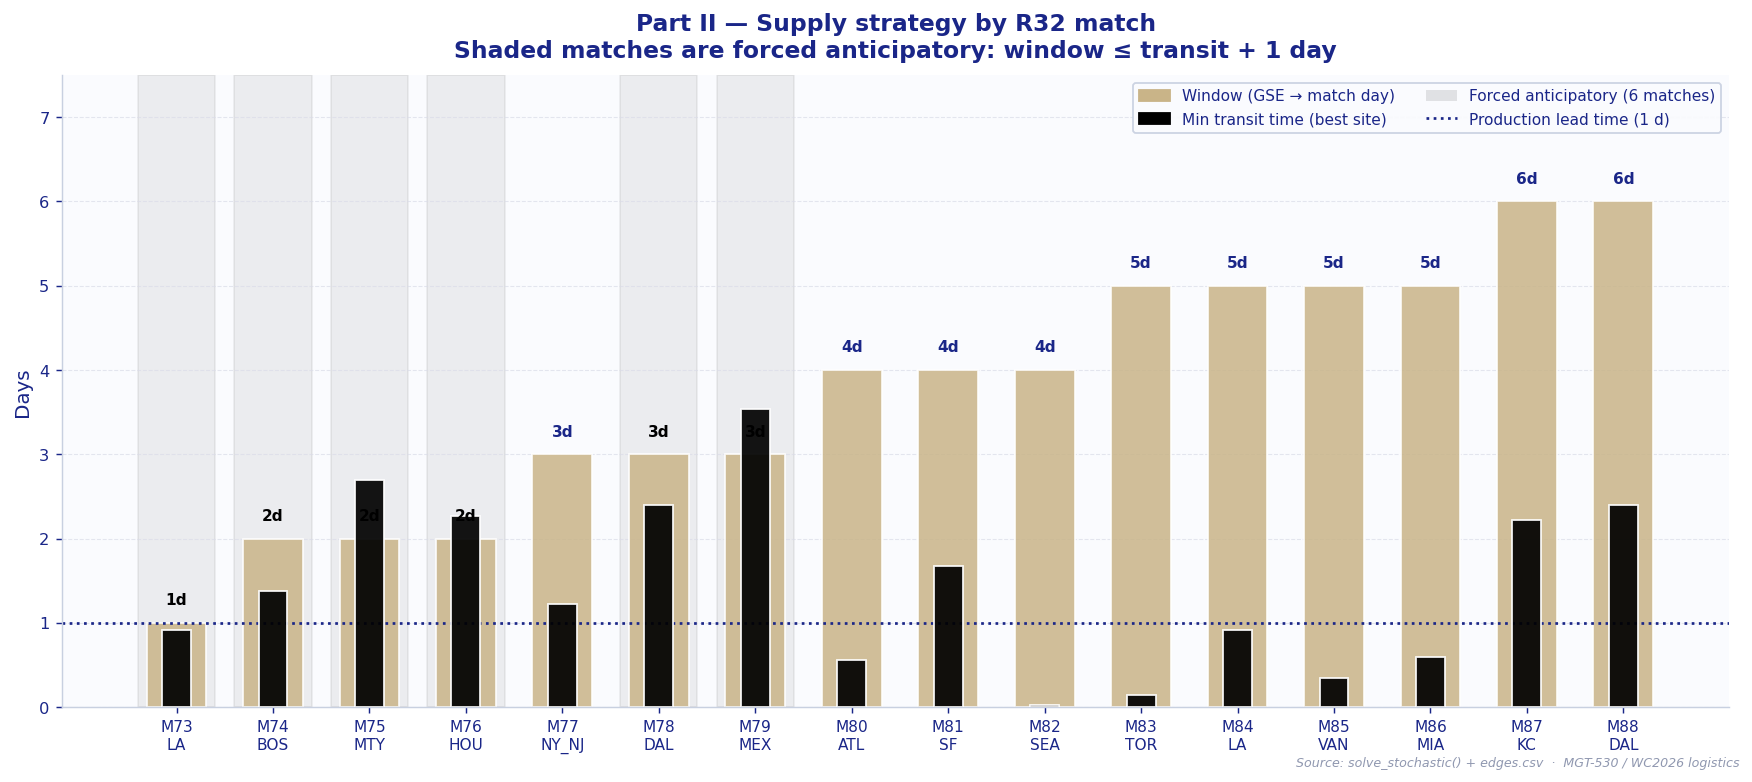
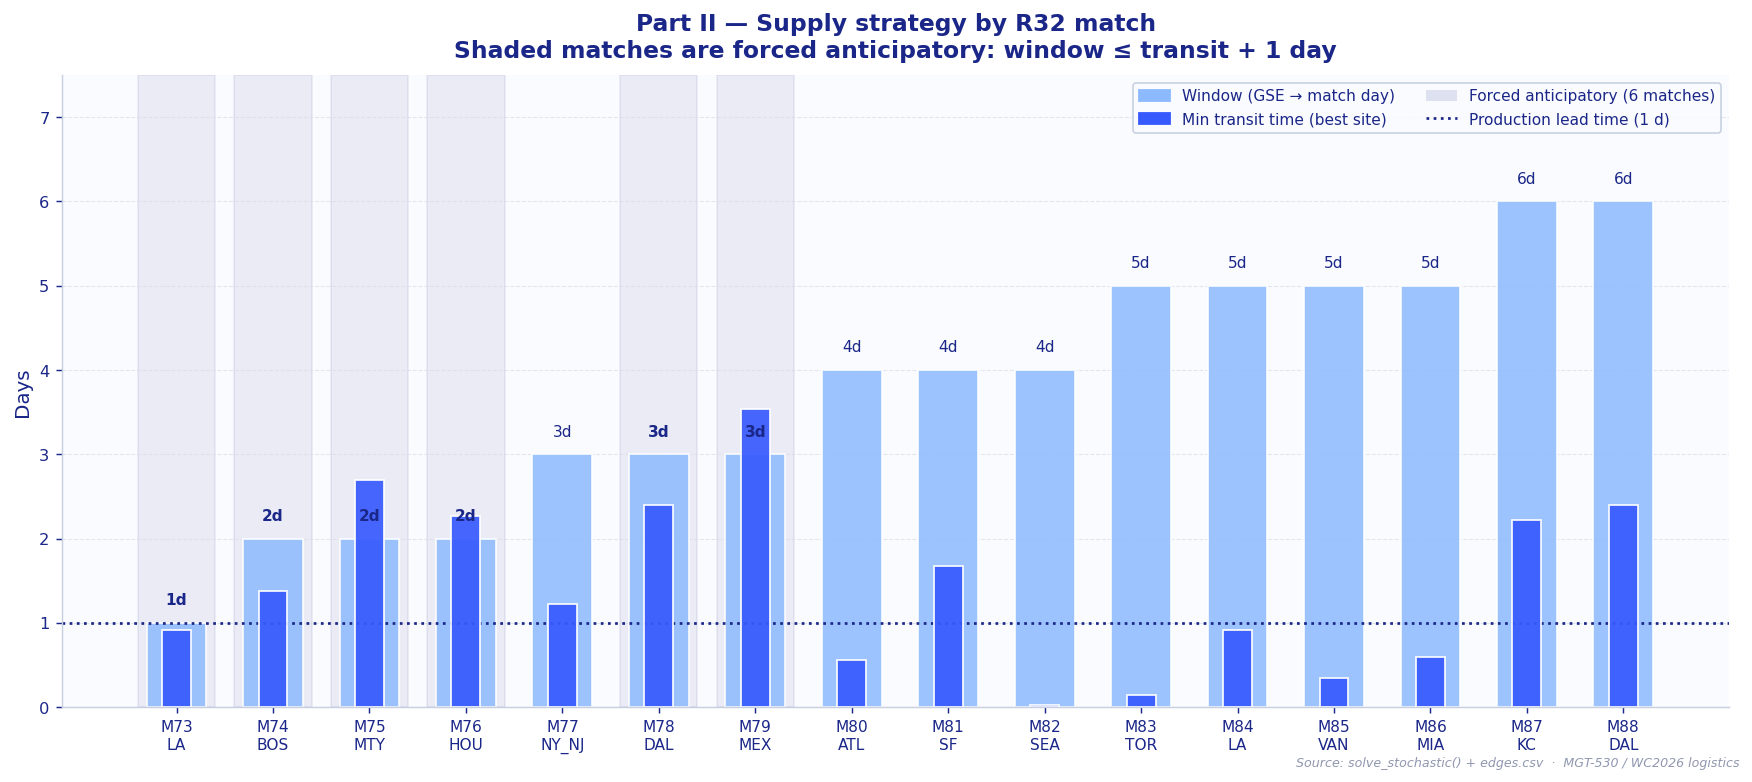
style: enforce strict palette order — 2-color figures use BLUE+LBLUE
Apply the user-specified strict palette order:
  1. Bright blue   #375AFE   (primary)
  2. Light blue    #8DBAFE   (secondary)
  3. Dark navy     #1A2688   (tertiary / baseline)
  4. Black         #000000   (4th)
  5. Light gold    #C9B488   (5th)
  6. Dark gold     #7A6438   (6th)

Rule: when a graph has only 2 main categories, use colours 1+2 as
the principal pair (BLUE + LIGHT BLUE).

Semantic aliases updated:
  C_STAGE1   = BLUE       (was DGOLD)
  C_STAGE2   = LIGHT BLUE
  C_FORCED   = BLUE       (was BLACK)  — saturated = warning emphasis
  C_REACTIVE = LIGHT BLUE (was GOLD)   — lighter = normal/calm
  C_EXTRA    = BLUE       (was BLACK)  — saturated = cost increase
  C_SAVINGS  = LIGHT BLUE (was GOLD)   — lighter = cost reduction
  C_LED/C_SOFT/C_BASELINE unchanged

For cost donut and stacked breakdown (6 categories), COST_COLORS
follows strict palette order: [BLUE, LBLUE, NAVY, BLACK, GOLD, DGOLD]

For 5-category reactive sites: [BLUE, LBLUE, NAVY, BLACK, GOLD]

In 2-colour figures where semantic emphasis is needed (forced bars,
forced map markers), visual distinction is preserved via:
  - bar / marker SIZE (larger for forced)
  - OUTLINE thickness (navy, 2.2 pt for forced)
  - BACKGROUND shading (light navy at 7% alpha for forced)
  - LABEL fontweight (bold for forced)

Headline numbers unchanged ($458,626 / 71 FEU / $302,535 / 6 forced).

Changed region(s): [[0.0616, 0.2148, 0.9555, 0.9207], [0.6473, 0.0921, 0.6781, 0.1841]]

diff --git a/src/common/visualize.py b/src/common/visualize.py
@@ -77,20 +77,22 @@ F_PURPLE  = F_DGOLD     # stage-1 / decision accent (was purple)
 F_RED     = F_BLACK     # warnings / forced / extra cost (was red)
 F_LIME    = F_GOLD      # savings / reactive / positive (was lime)
 
-# Semantic aliases
-C_LED       = F_BLUE
+# Semantic aliases — strict palette order: 2-color figures use BLUE + LIGHT BLUE
+# (golds/black are reserved for 3+ color figures and accents)
+C_LED       = F_BLUE        # 2-color pair (LED / Soft)
 C_SOFT      = F_LBLUE
-C_STAGE1    = F_DGOLD
+C_STAGE1    = F_BLUE        # 2-color pair (Stage-1 / Stage-2)
 C_STAGE2    = F_LBLUE
-C_FORCED    = F_BLACK
-C_REACTIVE  = F_GOLD
-C_SAVINGS   = F_GOLD
-C_EXTRA     = F_BLACK
-C_BASELINE  = F_NAVY
+C_FORCED    = F_BLUE        # 2-color pair (Forced / Reactive)
+C_REACTIVE  = F_LBLUE
+C_EXTRA     = F_BLUE        # 2-color pair (Extra / Savings) — saturated = warning
+C_SAVINGS   = F_LBLUE       # lighter = positive
+C_BASELINE  = F_NAVY        # third-tier (palette[2])
 C_SEA       = F_NAVY
 C_NEUTRAL   = "#C8D0E0"
 
-COST_COLORS = [F_NAVY, F_DGOLD, F_BLUE, F_LBLUE, F_BLACK, F_GOLD]
+# Strict palette order: blue, light blue, navy, black, light gold, dark gold
+COST_COLORS = [F_BLUE, F_LBLUE, F_NAVY, F_BLACK, F_GOLD, F_DGOLD]
 
 plt.rcParams.update({
     "font.family":            "DejaVu Sans",
@@ -1072,9 +1074,9 @@ def fig_part2_feasibility():
 
     for i in forced_idx:
         ax.bar(x[i] - w / 2, windows[i],    w, color=C_REACTIVE,
-               edgecolor=F_RED, linewidth=2.2, zorder=4)
+               edgecolor=F_NAVY, linewidth=2.2, zorder=4)
         ax.bar(x[i] + w / 2, mintransit[i], w, color=C_FORCED,
-               edgecolor=F_RED, linewidth=2.2, zorder=4)
+               edgecolor=F_NAVY, linewidth=2.2, zorder=4)
 
     ax.axhline(1, color=F_NAVY, ls=":", lw=1.5)
 
@@ -1087,7 +1089,7 @@ def fig_part2_feasibility():
     legend_els = [
         mpatches.Patch(color=C_REACTIVE, label="Window (GSE → match)"),
         mpatches.Patch(color=C_FORCED,   label="Min transit (best site)"),
-        mpatches.Patch(facecolor=C_REACTIVE, edgecolor=F_RED, linewidth=2,
+        mpatches.Patch(facecolor=C_REACTIVE, edgecolor=F_NAVY, linewidth=2,
                        label="Forced-anticipatory match"),
         Line2D([0], [0], color=F_NAVY, ls=":", lw=1.5, label="Production lead time (1 day)"),
     ]
@@ -1301,27 +1303,27 @@ def fig_anticipatory_by_match():
     fig, ax = plt.subplots(figsize=(13.5, 6))
     x = np.arange(len(match_ids))
 
-    # Background bands: red shade for forced indices
+    # Background bands: subtle navy shade for forced indices
     for i, mid in enumerate(match_ids):
         if mid in forced_set:
-            ax.axvspan(i - 0.4, i + 0.4, color=F_RED, alpha=0.06, zorder=0)
+            ax.axvspan(i - 0.4, i + 0.4, color=F_NAVY, alpha=0.07, zorder=0)
 
-    # Window as filled bar (green)
+    # Window as filled bar (light blue, principal pair)
     ax.bar(x, windows, color=C_REACTIVE, edgecolor="white", width=0.62,
            alpha=0.85, label="Window (days from GSE to match)", zorder=2)
-    # Transit time as smaller bar (red overlay)
+    # Transit time as smaller bar (bright blue overlay)
     transit_plot = [t if t is not None else 0 for t in mintransit]
-    ax.bar(x, transit_plot, color=F_RED, edgecolor="white", width=0.30,
+    ax.bar(x, transit_plot, color=C_FORCED, edgecolor="white", width=0.30,
            alpha=0.92, label="Min transit time (best site)", zorder=3)
     # Production lead-time floor (1 day)
     ax.axhline(1, color=F_NAVY, ls=":", lw=1.5, label="Production lead time (1 d)")
 
     for i, (win, mid) in enumerate(zip(windows, match_ids)):
         forced = mid in forced_set
-        col = F_RED if forced else F_NAVY
+        col = F_NAVY
         ax.text(i, win + 0.18, f"{win}d",
                 ha="center", va="bottom", fontsize=8.5,
-                color=col, fontweight="bold")
+                color=col, fontweight="bold" if forced else "normal")
 
     ax.set_xticks(x)
     ax.set_xticklabels(
@@ -1334,8 +1336,8 @@ def fig_anticipatory_by_match():
 
     legend_els = [
         mpatches.Patch(color=C_REACTIVE, label="Window (GSE → match day)"),
-        mpatches.Patch(color=F_RED,      label="Min transit time (best site)"),
-        mpatches.Patch(facecolor=F_RED, alpha=0.10,
+        mpatches.Patch(color=C_FORCED,   label="Min transit time (best site)"),
+        mpatches.Patch(facecolor=F_NAVY, alpha=0.12,
                        label=f"Forced anticipatory ({len(forced_set)} matches)"),
         Line2D([0], [0], color=F_NAVY, ls=":", lw=1.5, label="Production lead time (1 d)"),
     ]
@@ -1419,7 +1421,7 @@ def fig_part2_production_days():
         ax.text(i, tot + 8000, f"\\${tot:,.0f}",
                 ha="center", fontsize=11, fontweight="bold", color=F_NAVY)
         ax.text(i, tot + 22_000, f"{fc} / 16 matches\nforced anticipatory",
-                ha="center", fontsize=9, color=F_RED, fontweight="bold")
+                ha="center", fontsize=9, color=F_NAVY, fontweight="bold")
         # inside labels
         ax.text(i, s1 / 2, f"\\${s1/1e3:.0f}k",
                 ha="center", va="center", color="white", fontsize=10, fontweight="bold")
@@ -1458,7 +1460,8 @@ def fig_part2_reactive_sites():
     fig, ax = plt.subplots(figsize=(10, 5.5))
     y = np.arange(len(sites))
 
-    colors = [F_PURPLE, F_BLUE, F_LBLUE, F_LIME, C_NEUTRAL]
+    # Strict palette order for 5 categories
+    colors = [F_BLUE, F_LBLUE, F_NAVY, F_BLACK, F_GOLD]
     palette = [colors[i % len(colors)] for i in range(len(sites))]
 
     bars = ax.barh(y, freqs, color=palette, edgecolor="white", height=0.6)
@@ -1506,22 +1509,24 @@ def fig_part2_forced_map():
         if venue not in coords:
             continue
         lat, lon, _, name = coords[venue]
-        col = F_RED if info["forced"] else F_LIME
-        size = 280 if info["forced"] else 220
+        col = C_FORCED if info["forced"] else C_REACTIVE
+        size = 300 if info["forced"] else 220
+        edge = F_NAVY
+        lw = 2.2 if info["forced"] else 1.2
         ax.scatter(lon, lat, marker="o", color=col, s=size,
-                   edgecolors=F_NAVY, linewidths=1.6, zorder=5, alpha=0.92)
+                   edgecolors=edge, linewidths=lw, zorder=5, alpha=0.95)
         short = venue.replace("STAD_", "")
         ax.annotate(f"{short}\n(w={info['min_window']}d)",
                     (lon, lat), xytext=(7, 6), textcoords="offset points",
                     fontsize=8.5,
-                    color=F_NAVY if not info["forced"] else F_RED,
-                    fontweight="bold")
+                    color=F_NAVY,
+                    fontweight="bold" if info["forced"] else "normal")
 
     legend_els = [
-        Line2D([0], [0], marker="o", color="w", markerfacecolor=F_RED,
-               markersize=14, markeredgecolor=F_NAVY,
+        Line2D([0], [0], marker="o", color="w", markerfacecolor=C_FORCED,
+               markersize=14, markeredgecolor=F_NAVY, markeredgewidth=2.0,
                label=f"Forced anticipatory venue ({sum(1 for v in venue_status.values() if v['forced'])} venues)"),
-        Line2D([0], [0], marker="o", color="w", markerfacecolor=F_LIME,
+        Line2D([0], [0], marker="o", color="w", markerfacecolor=C_REACTIVE,
                markersize=13, markeredgecolor=F_NAVY,
                label=f"Reactive venue ({sum(1 for v in venue_status.values() if not v['forced'])} venues)"),
     ]
